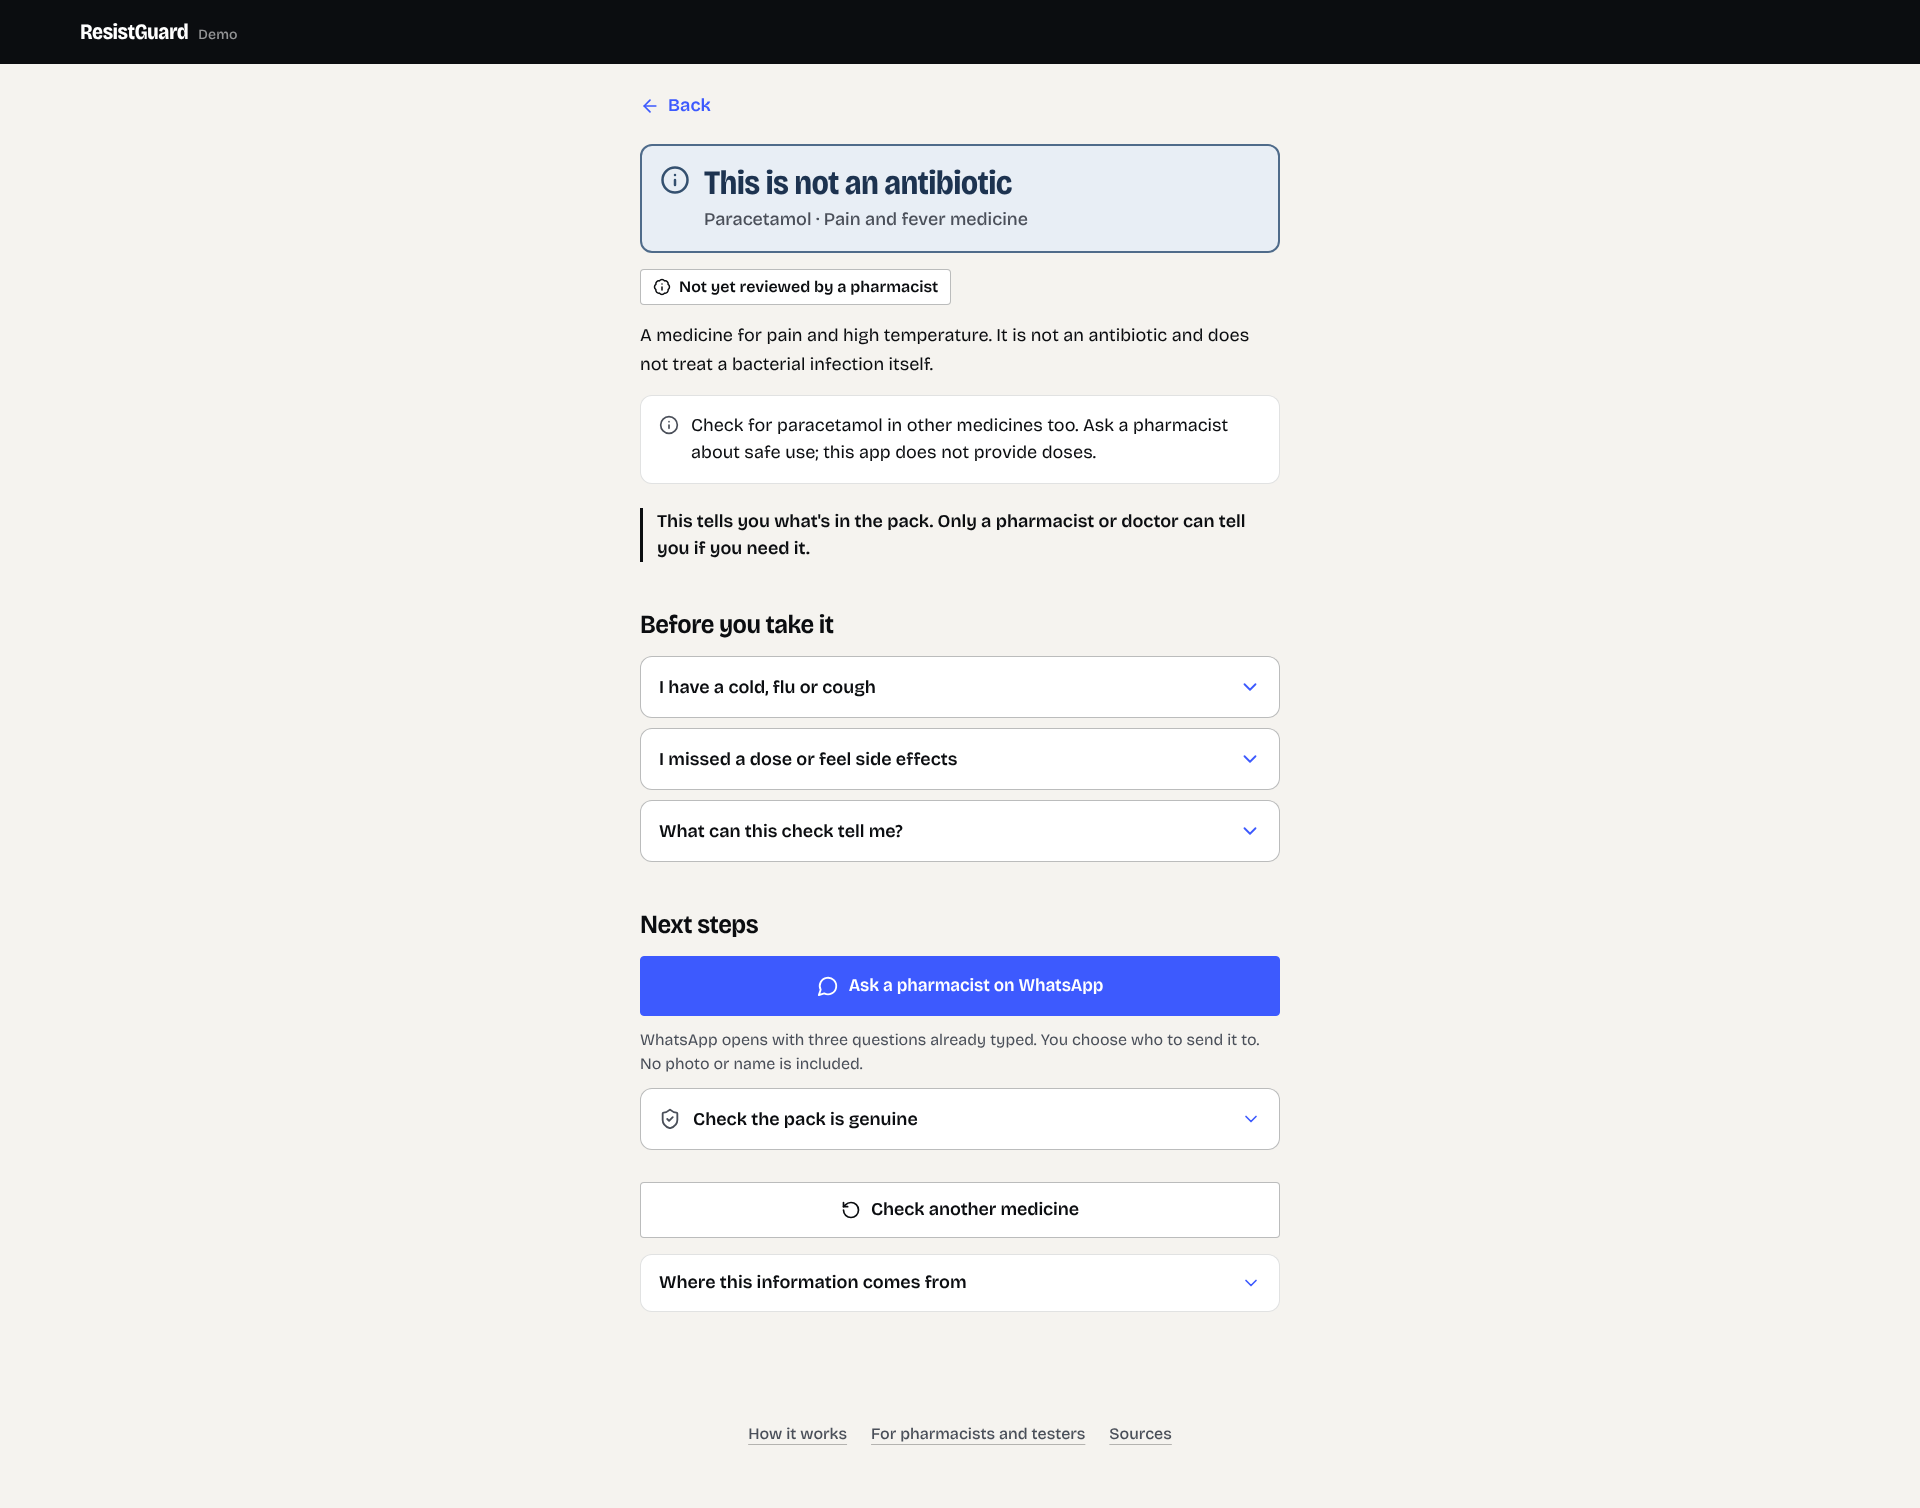
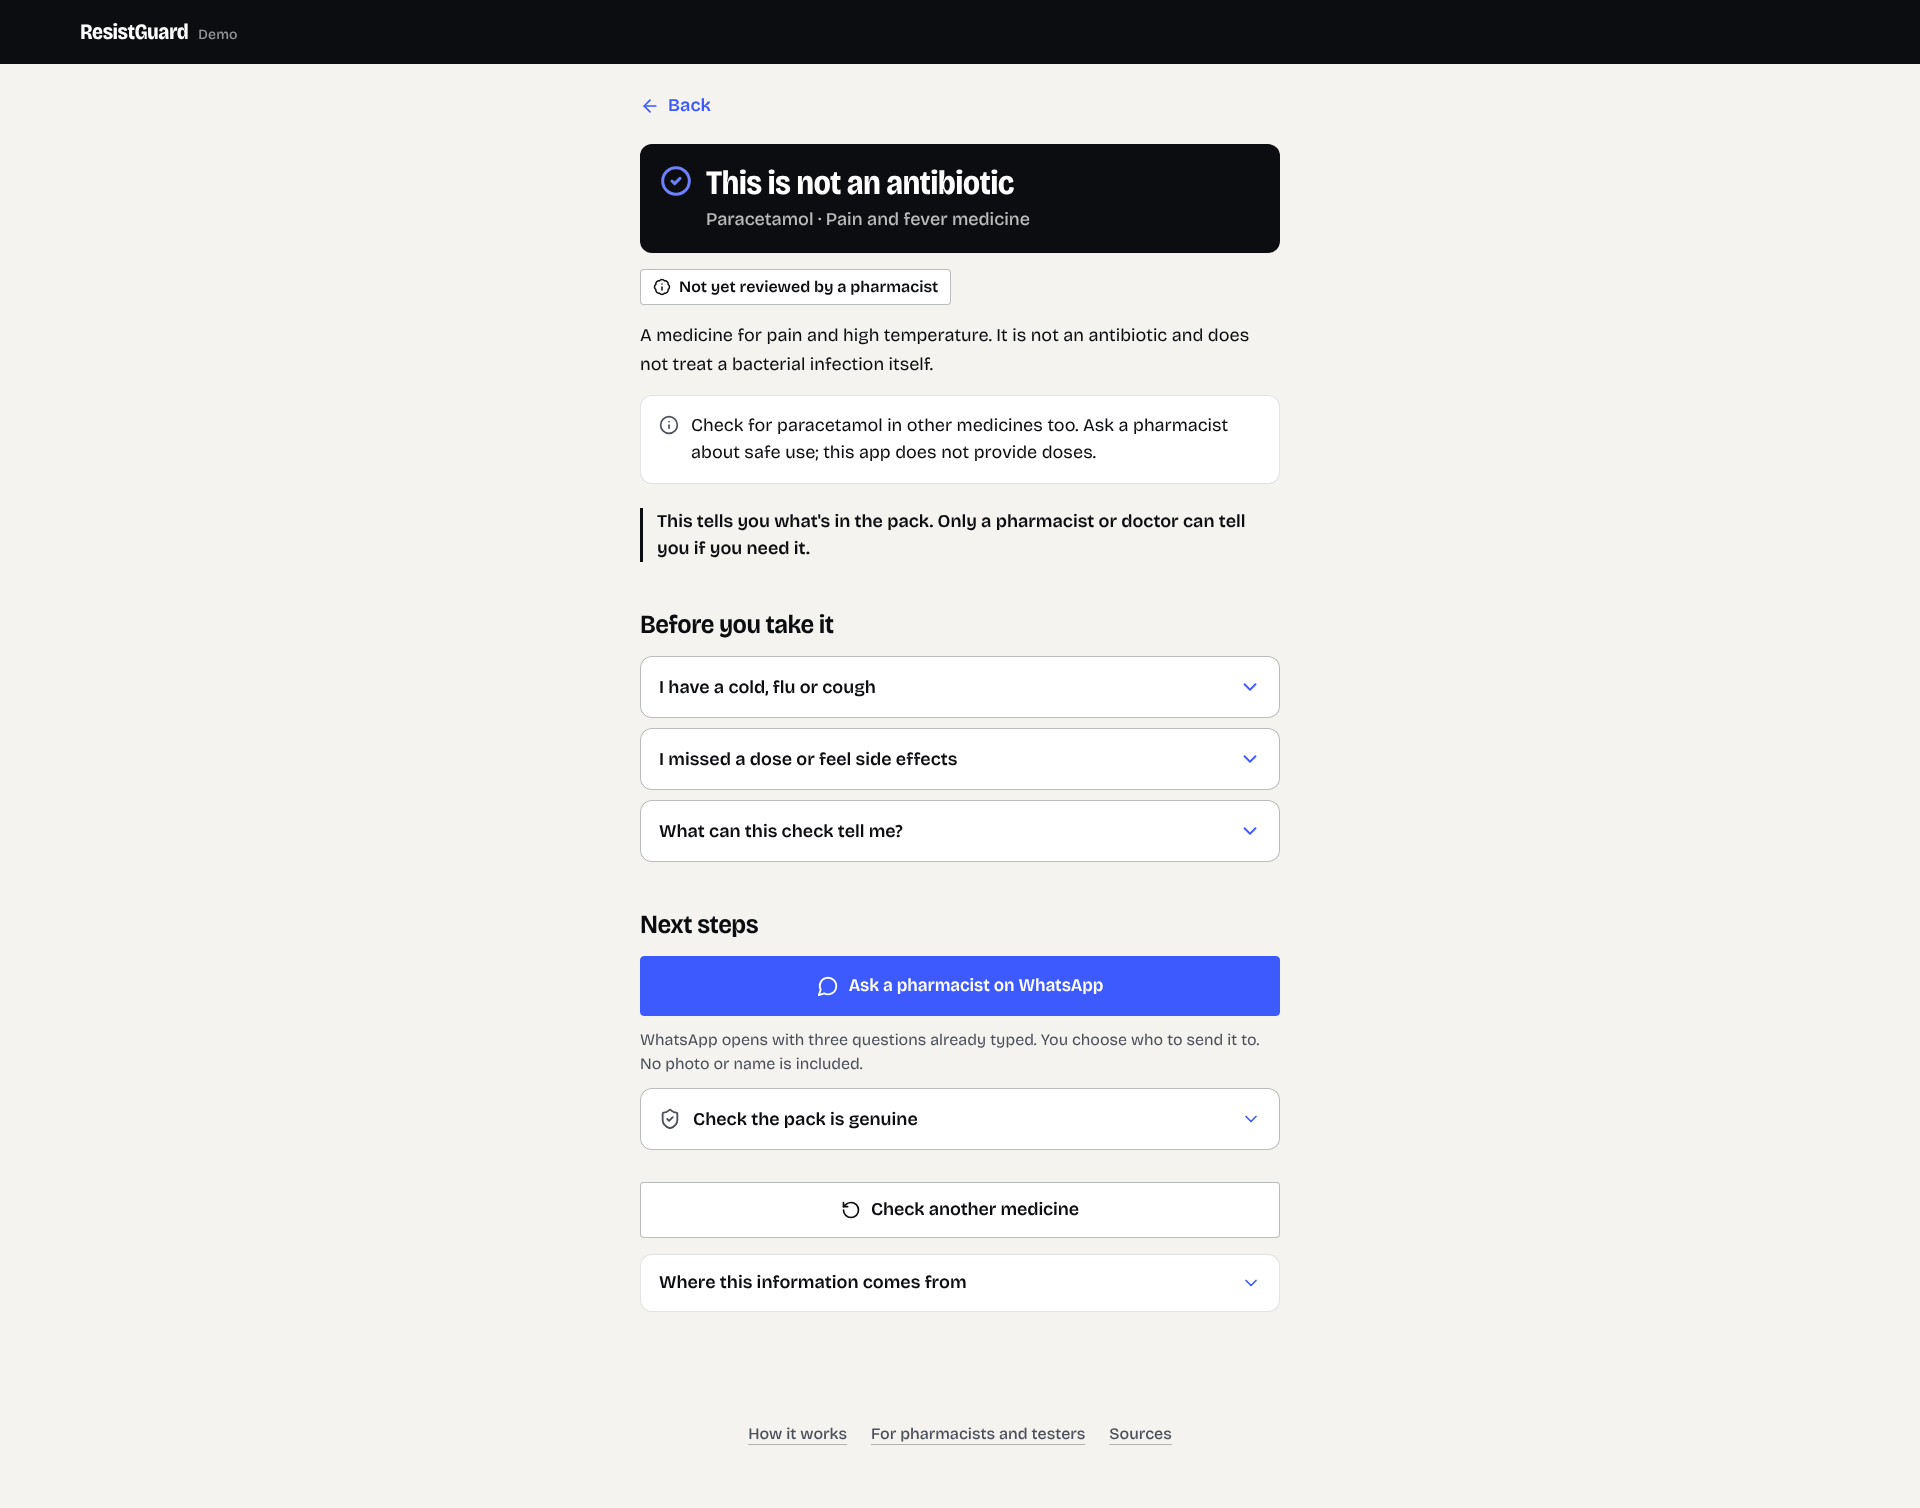
Show the answer as positive feedback, not a warning
Reaching an answer is the moment the product succeeds, but the antibiotic
verdict looked like an alert (amber box, warning triangle). Both verdicts are
now one night card with a blue check and the answer in large white type; the
words say which outcome. Amber and slate stay only as list-chip labels.

Claude-Session: https://claude.ai/code/session_01QXnJzsg3GfQ5Gs2Jt9t3nx

Changed region(s): [[0.3125, 0.0935, 0.6875, 0.187]]

diff --git a/app/components/answer.css b/app/components/answer.css
@@ -1,16 +1,10 @@
-/* The answer. Amber means antibiotic caution, slate means not an antibiotic. The verdict never relies on colour alone: icon and words carry it too. */
+/* The answer is the success moment: the dark room gives its answer. One card for both outcomes, with a check
+   that says the check is done; the words say which outcome. No warning colours or alert icons on the verdict. */
 .answer{display:block}
-.answer-verdict{display:flex;gap:14px;align-items:flex-start;margin-top:var(--s3);padding:18px;border:2px solid;border-radius:var(--radius-card)}
-.answer .answer-verdict h1{margin:0;font-size:clamp(28px,3vw,34px);font-weight:700;font-stretch:86%;line-height:1.1;letter-spacing:-.02em;text-wrap:wrap}
-.answer-verdict-antibiotic{background:var(--amber-50);border-color:var(--amber-line)}
-.answer .answer-verdict-antibiotic h1{color:var(--amber-ink)}
-.answer-verdict-antibiotic .answer-verdict-icon{color:var(--amber-icon)}
-.answer-verdict-other{background:var(--slate-50);border-color:var(--slate-line)}
-.answer .answer-verdict-other h1{color:var(--slate-ink)}
-.answer-verdict-other .answer-verdict-icon{color:var(--slate-icon)}
-.answer-verdict-icon{position:relative;display:flex;flex-shrink:0;margin-top:1px}
-.answer-verdict-alert{position:absolute;right:-8px;top:-8px;border-radius:50%;background:var(--amber-50)}
-.answer-name{margin:6px 0 0;font-size:var(--text-body);font-weight:500;line-height:1.4;color:var(--ink-2)}
+.answer-verdict{display:flex;gap:14px;align-items:flex-start;margin-top:var(--s3);padding:20px;border-radius:var(--radius-card);background:var(--night);color:var(--on-night)}
+.answer .answer-verdict h1{margin:0;font-size:clamp(28px,3vw,34px);font-weight:700;font-stretch:86%;line-height:1.1;letter-spacing:-.02em;text-wrap:wrap;color:var(--on-night)}
+.answer-verdict-icon{display:flex;flex-shrink:0;margin-top:1px;color:var(--signal-300)}
+.answer-name{margin:6px 0 0;font-size:var(--text-body);font-weight:500;line-height:1.4;color:var(--on-night-2)}
 .answer-review{display:inline-flex;align-items:center;gap:var(--s2);margin:var(--s4) 0 0;padding:6px 12px;border:1px solid var(--line-strong);border-radius:var(--radius-control);background:var(--card);font-size:var(--text-small);font-weight:600;line-height:1.4;color:var(--ink)}
 .answer-review svg{flex-shrink:0}
 .answer-summary{margin:var(--s4) 0 0;font-size:var(--text-body);line-height:1.6}

diff --git a/app/components/Answer.tsx b/app/components/Answer.tsx
@@ -1,7 +1,7 @@
 'use client';
 
 import {useState} from 'react';
-import {Pill,TriangleAlert,Info,ChevronDown,RotateCcw,BadgeInfo} from 'lucide-react';
+import {CircleCheck,Info,ChevronDown,RotateCcw,BadgeInfo} from 'lucide-react';
 import {assess,type Medicine} from '@/lib/safety';
 import {answerCards} from '@/lib/flow';
 import {copy} from '@/lib/screen-copy';
@@ -13,7 +13,7 @@ export default function Answer({medicine,onAnother}:{medicine:Medicine;onAnother
  const base=assess(medicine.id,'general')!;
  const t=copy.answer;
  return <section className="answer" aria-labelledby="answer-verdict">
-  <div data-motion="verdict" className={`answer-verdict ${medicine.antibiotic?'answer-verdict-antibiotic':'answer-verdict-other'}`}><span className="answer-verdict-icon" aria-hidden="true">{medicine.antibiotic?<><Pill size={30}/><TriangleAlert size={18} className="answer-verdict-alert"/></>:<Info size={30}/>}</span><div><h1 id="answer-verdict" tabIndex={-1} data-screen-heading>{medicine.antibiotic?t.antibiotic:t.notAntibiotic}</h1><p className="answer-name">{medicine.name} · {medicine.category}</p></div></div>
+  <div data-motion="verdict" className={`answer-verdict ${medicine.antibiotic?'answer-verdict-antibiotic':'answer-verdict-other'}`}><span className="answer-verdict-icon" aria-hidden="true"><CircleCheck size={32} strokeWidth={2.25}/></span><div><h1 id="answer-verdict" tabIndex={-1} data-screen-heading>{medicine.antibiotic?t.antibiotic:t.notAntibiotic}</h1><p className="answer-name">{medicine.name} · {medicine.category}</p></div></div>
   <p className="answer-review"><BadgeInfo size={18} aria-hidden="true"/>{t.review}</p>
   <p className="answer-summary">{medicine.summary}</p>
   <div className="caution answer-caution"><Info size={20} aria-hidden="true"/><p>{medicine.caution}</p></div>

diff --git a/app/tokens.css b/app/tokens.css
@@ -24,8 +24,8 @@
  --on-signal:#FFFFFF;      /* label on a signal fill, 5.1:1 */
 
  /* Meaning colours, unchanged from the reviewed answer screen */
- --amber-50:#FFF0D4;--amber-line:#B25E00;--amber-icon:#8A4500;--amber-ink:#4D2600;   /* antibiotic caution */
- --slate-50:#E8EEF5;--slate-line:#4F6B8A;--slate-icon:#34506F;--slate-ink:#1D3350;   /* not an antibiotic */
+ --amber-50:#FFF0D4;--amber-line:#B25E00;--amber-ink:#4D2600;   /* the "Antibiotic" label on list chips */
+ --slate-50:#E8EEF5;--slate-line:#4F6B8A;--slate-ink:#1D3350;   /* the "Not an antibiotic" label on list chips */
 
  /* Type: Bricolage Grotesque for everything, Fraunces italic for one word per heading */
  --font-sans:var(--font-bricolage),'Bricolage Grotesque Fallback',sans-serif;

diff --git a/DESIGN.md b/DESIGN.md
@@ -17,8 +17,8 @@ One product, one design language. The landing page (`/`) is night. The medicine 
 | `--signal-press` | `#2F49E0` | Hover and press of signal fills |
 | `--signal-300` | `#6E80FF` | Small signal text and the focus ring on night |
 | `--signal-50` / `--signal-ink` | `#E9ECFF` / `#2A3BB8` | Information notes on paper (paused photo reading, "AI read this", timeouts) |
-| `--amber-*` | `#FFF0D4` `#B25E00` `#8A4500` `#4D2600` | **Antibiotic caution** only: verdict and chips |
-| `--slate-*` | `#E8EEF5` `#4F6B8A` `#34506F` `#1D3350` | **Not an antibiotic** only: calm information |
+| `--amber-*` | `#FFF0D4` `#B25E00` `#4D2600` | The "Antibiotic" label on list chips (find by name, catalogue) |
+| `--slate-*` | `#E8EEF5` `#4F6B8A` `#1D3350` | The "Not an antibiotic" label on list chips |
 
 Rules:
 - No green anywhere: "not an antibiotic" must never read as "safe to take".
@@ -53,7 +53,7 @@ Rules:
 - Space scale: 4, 8, 12, 16, 24, 32, 48, 64, 96, 128px. Page gutter is `clamp(20px, 4.2vw, 80px)`.
 - Controls are at least 52px tall; the default is 56px, and primary actions on Home are 64px.
 - Focus is a 2px ring offset 3px: signal on paper, signal-300 on night (`.on-night`).
-- The verdict uses a full 2px border plus a tint, an icon and words. Never a side stripe, and never colour alone.
+- The verdict is the success moment: a night card with a signal-300 check and the answer in large white type, the same for both outcomes. The words carry the meaning. No warning colours, alert icons or side stripes.
 
 ## Components
 

diff --git a/ART_DIRECTION.md b/ART_DIRECTION.md
@@ -14,7 +14,7 @@ Doubt, then clarity, then reassurance. The hero names the doubt in big, plain ty
 | Signal `#3D5AFE` | Fill of the one primary button (white label, 5.1:1). Large emphasis word only (3.8:1, so 24px and up). Small signal text uses `#6E80FF` | Primary button, links (4.6:1). Notes on `signal-50 #E9ECFF` with `#2A3BB8` text |
 | Lines | `rgba(255,255,255,.12)` | `rgba(11,13,16,.12)` |
 
-Each colour has one meaning. Signal means "do this next". Amber (`#fff0d4` / `#b25e00` / `#4d2600`) means antibiotic caution. Slate (`#e8eef5` / `#4f6b8a` / `#1d3350`) means not an antibiotic. The palette has no red, green, lavender or old cobalt. There are no shadows or gradients, except the single hero glow.
+Each colour has one meaning. Signal means "do this next". Amber (`#fff0d4` / `#b25e00` / `#4d2600`) labels "Antibiotic" on list chips, and slate (`#e8eef5` / `#4f6b8a` / `#1d3350`) labels "Not an antibiotic". The answer itself is positive feedback: a night card with a blue check, because reaching an answer is the moment the product succeeds. The palette has no red, green, lavender or old cobalt. There are no shadows or gradients, except the single hero glow.
 
 Radius is 4px on every control (buttons, inputs, chips) and 12px on paper cards. Focus is a 2px ring offset by 4px: `#6E80FF` on night, `#3D5AFE` on paper. It is the same shape everywhere.
 
